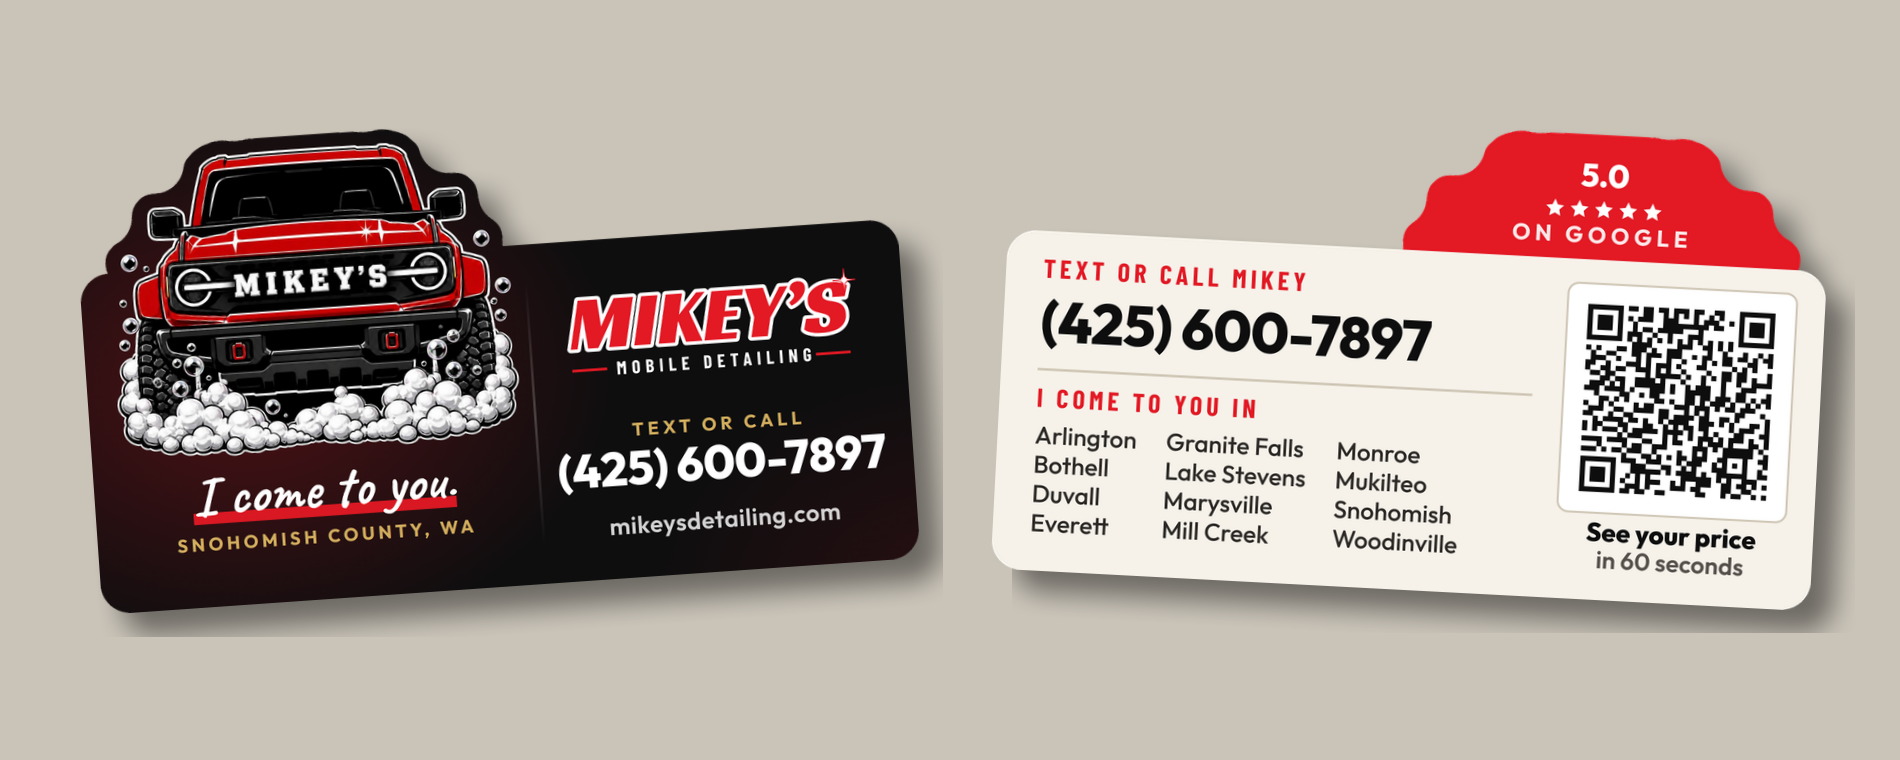
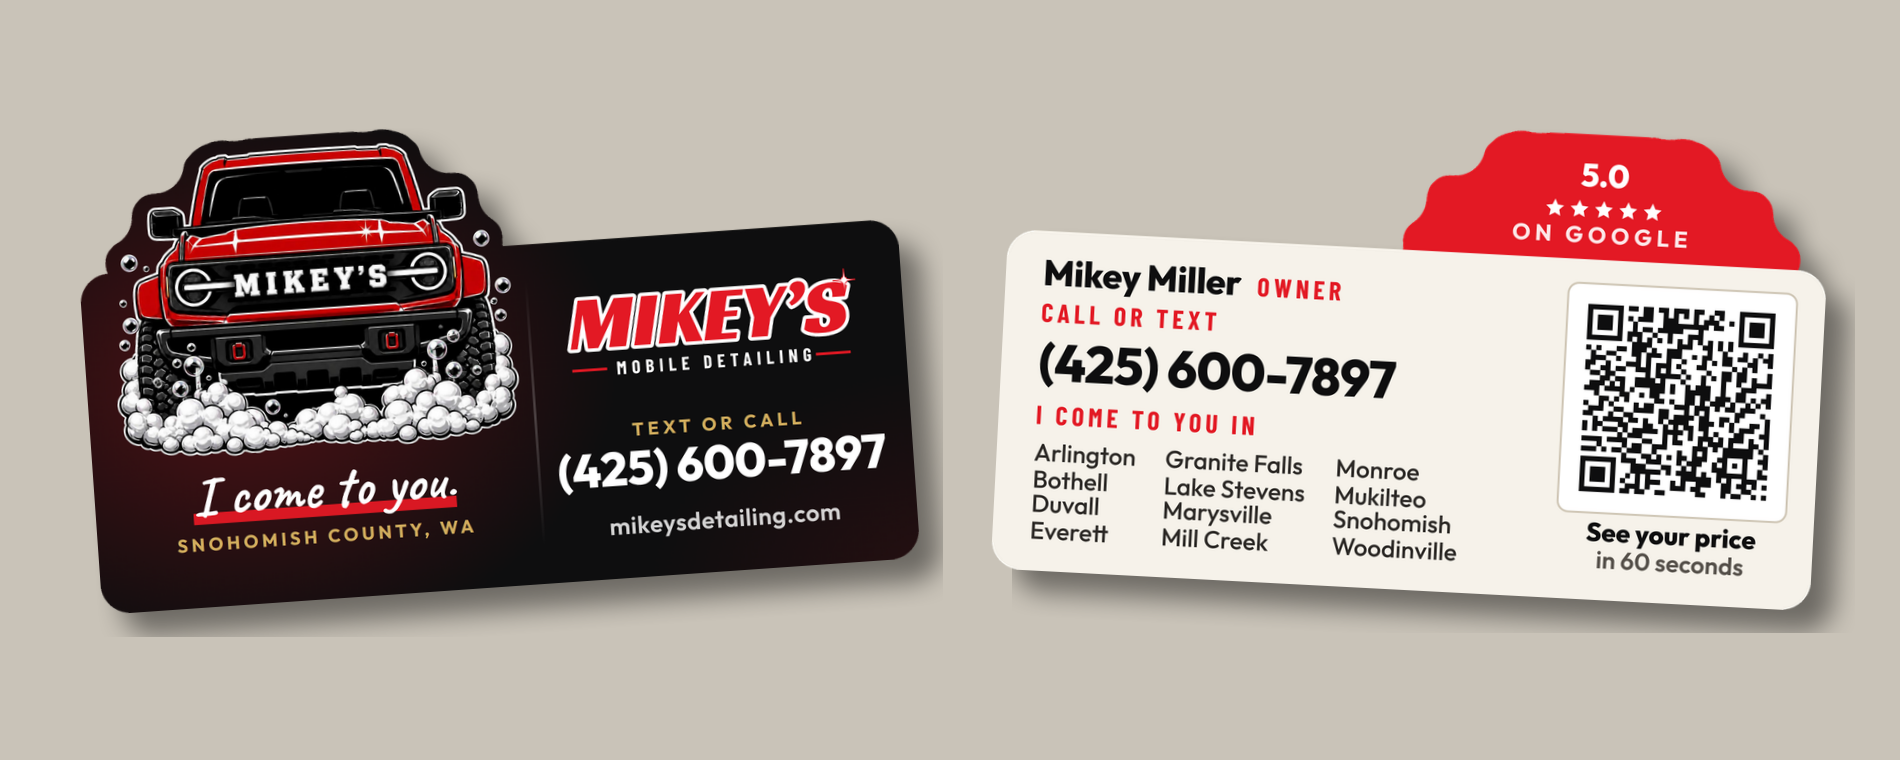
Business card: name and "Owner" at the top of the back
Mikey's layout: "Mikey Miller" with "Owner", then "Call or text", then
the number. The divider line came out to make room, so the twelve towns
stay at 7.5 pt and everything stays inside the safe area.

Claude-Session: https://claude.ai/code/session_01VaNEkuyPHN3qSc7XFqokdZ

Changed region(s): [[0.5279, 0.3329, 0.7763, 0.7566], [0.7763, 0.5145, 0.8074, 0.5447]]

diff --git a/print/business-card/README.md b/print/business-card/README.md
@@ -21,7 +21,8 @@ it.
   design uses it as the main idea and doesn't stop at rounded corners.
 - **The back does one job, with three things.** 4OVER4's guide: a back should
   "pick two or three" things, and for a card handed to strangers the job is
-  getting back to him. So the back is the phone (big, "Text or call Mikey"),
+  getting back to him. So the back is who he is and his phone ("Mikey
+  Miller, Owner", "Call or text", the number, in that order, Mikey's layout),
   where he works (the twelve towns), and a QR to the quote calculator. The web
   address is on the front only: "Do not repeat the front."
 - **The towns are a list you can look things up in.** Alphabetical, down the
@@ -45,14 +46,15 @@ strangers, not only after a job, and the research backs him: the only back
 patterns with real evidence (punch cards, appointment lines) work on existing
 customers. "300+ cars" came off the front because it didn't say anything to
 the person holding it. The "Online" row came off the back because the address
-is on the front.
+is on the front. Mikey then asked for his name and "Owner" at the top of the
+back, over "Call or text" and the number.
 
 ## What's on it, and what's left off on purpose
 
 Front: the truck, MIKEY'S / MOBILE DETAILING, "I come to you.", Snohomish
 County, WA, "Text or call" (425) 600-7897, mikeysdetailing.com.
 
-Back: "Text or call Mikey" (425) 600-7897, "I come to you in" and the twelve
+Back: "Mikey Miller" / "Owner", "Call or text" (425) 600-7897, "I come to you in" and the twelve
 towns, a QR to the quote calculator ("See your price in 60 seconds"), and 5.0
 on Google in the bump.
 
